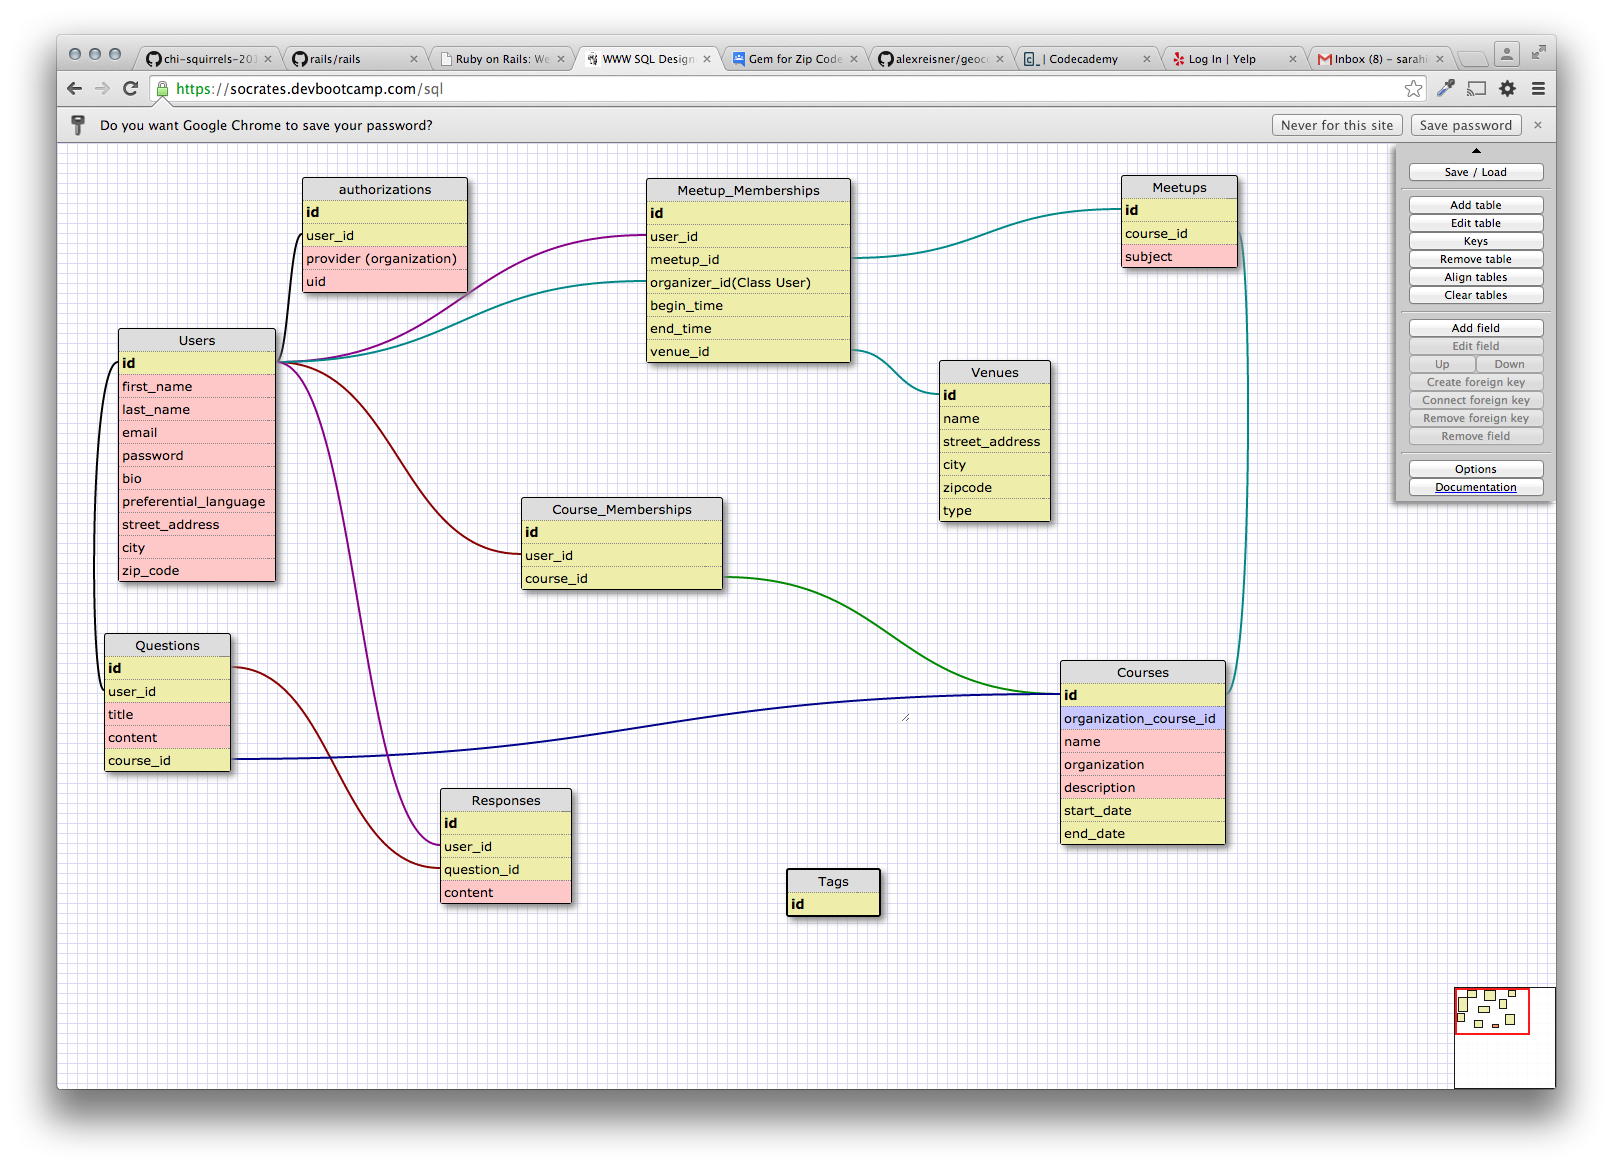
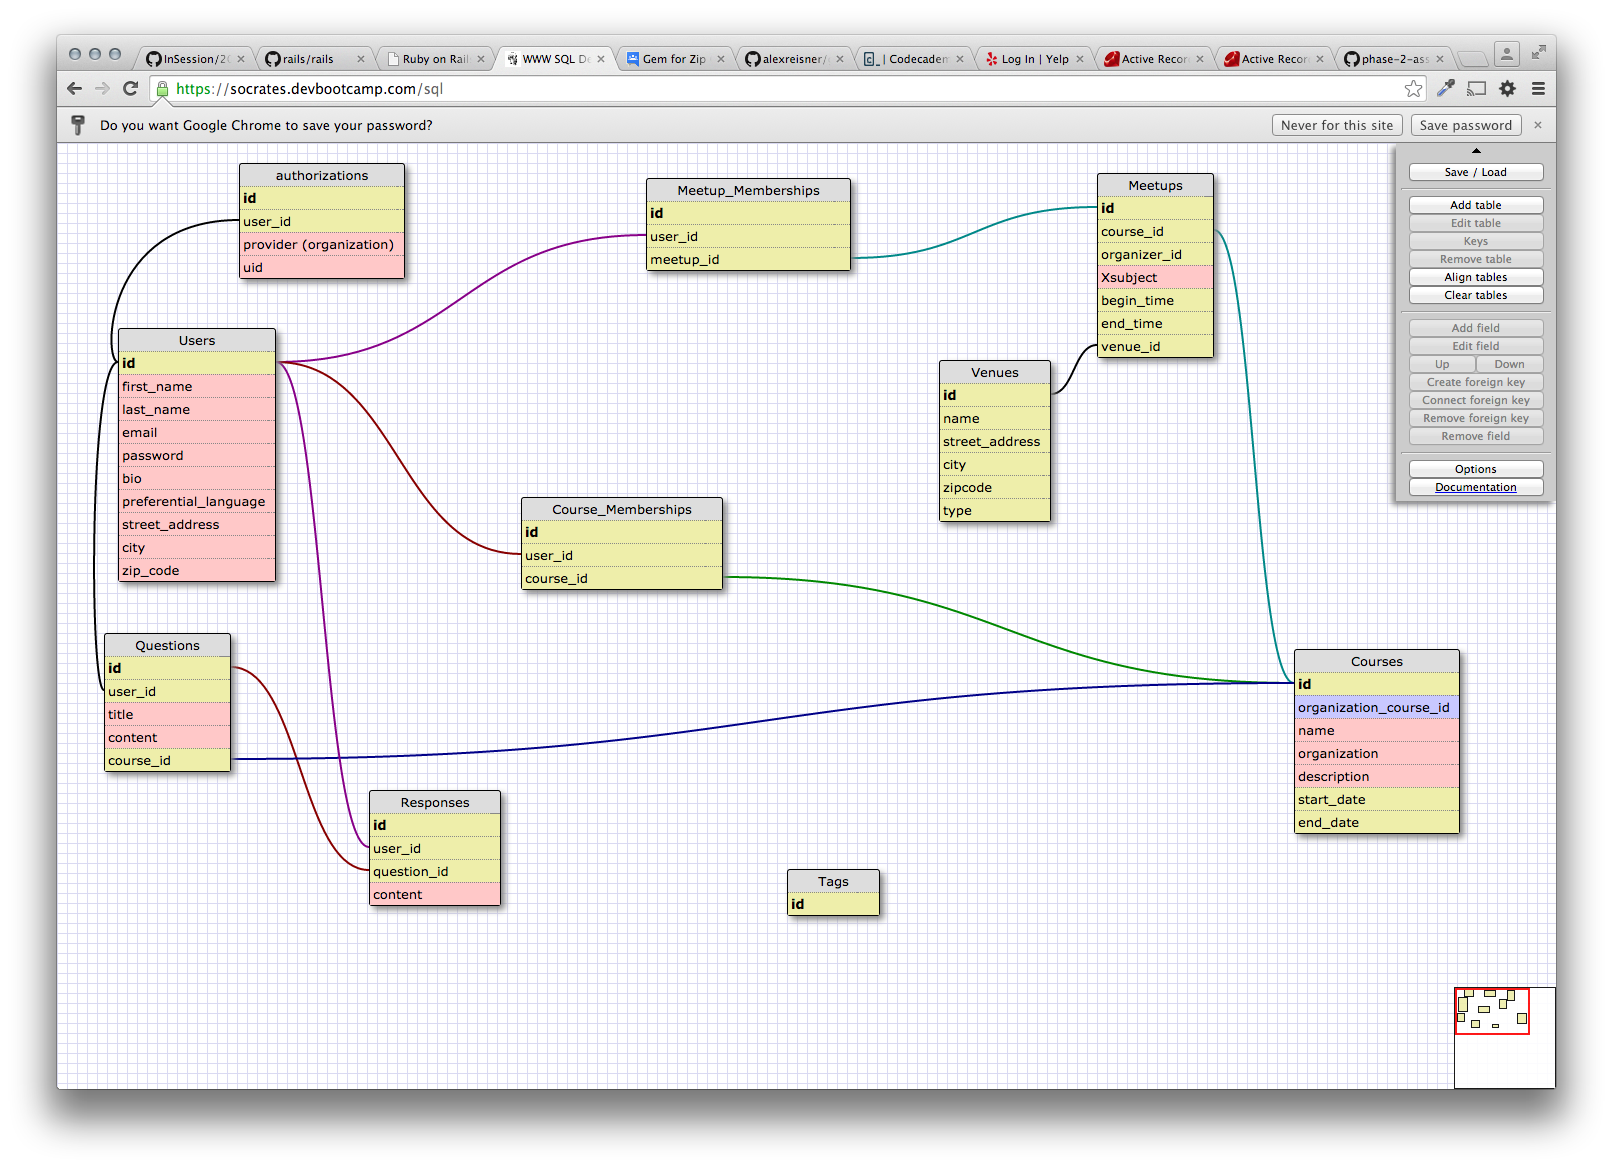
models are complete and sexy as they should be

diff --git a/app/models/user.rb b/app/models/user.rb
@@ -3,4 +3,11 @@ class User < ActiveRecord::Base
   # :confirmable, :lockable, :timeoutable and :omniauthable
   devise :database_authenticatable, :registerable,
          :recoverable, :rememberable, :trackable, :validatable
+  has_many :meetup_memberships
+  has_many :meetups, through: :meetup_memberships
+  has_many :organized_meetups, class_name: "Meetup", foreign_key: :organizer_id
+  has_many :course_memberships
+  has_many :courses, through: :course_memberships
+  has_many :questions
+  has_many :responses 
 end

diff --git a/db/migrate/20150306032107_create_meetups.rb b/db/migrate/20150306032107_create_meetups.rb
@@ -1,7 +1,13 @@
 class CreateMeetups < ActiveRecord::Migration
   def change
     create_table :meetups do |t|
-      t.references :course, index: true
+      t.references :course, index: true     
+      t.references :organizer, index: true 
+      t.datetime  :begin_time
+      t.datetime  :end_time
+      t.references :venue, index: true
+      t.boolean   :remote
+
       t.timestamps null: false
     end
   end

diff --git a/db/migrate/20150306163216_create_meetup_memberships.rb b/db/migrate/20150306163216_create_meetup_memberships.rb
@@ -3,11 +3,8 @@ class CreateMeetupMemberships < ActiveRecord::Migration
     create_table :meetup_memberships do |t|
       t.references :user, index: true
       t.references :meetup, index: true
-      t.references :organizer, index: true 
-      t.datetime  :begin_time
-      t.datetime  :end_time
-      t.references :venue, index: true
-        
+      
+      t.timestamps  
       end
     end
   end

diff --git a/app/models/meetup.rb b/app/models/meetup.rb
@@ -1,2 +1,8 @@
 class Meetup < ActiveRecord::Base
+  belongs_to :course
+  belongs_to :venue
+  belongs_to :organizer, class_name: "User"
+  has_many :meetup_memberships
+  has_many :users, through: :meetup_memberships
+   
 end

diff --git a/app/models/question.rb b/app/models/question.rb
@@ -1,4 +1,6 @@
 class Question < ActiveRecord::Base
   belongs_to :user
-   validates_presence_of :content, :title, :user_id
+  belongs_to :course
+  
+  validates_presence_of :content, :title, :user_id
 end

diff --git a/app/models/course.rb b/app/models/course.rb
@@ -1,2 +1,5 @@
 class Course < ActiveRecord::Base
+  has_many :course_memberships
+  has_many :users, through: :course_memberships
+  has_many :questions
 end

diff --git a/app/models/course_membership.rb b/app/models/course_membership.rb
@@ -1,0 +1,5 @@
+class CourseMembership < ActiveRecord::Base
+  belongs_to :user
+  belongs_to :course
+  
+end

diff --git a/app/models/meetup_membership.rb b/app/models/meetup_membership.rb
@@ -1,0 +1,5 @@
+class MeetupMembership < ActiveRecord::Base
+  belongs_to :user
+  belongs_to :meetup
+
+end

diff --git a/app/models/response.rb b/app/models/response.rb
@@ -1,2 +1,4 @@
 class Response < ActiveRecord::Base
+  belongs_to :user
+  belongs_to :question
 end

diff --git a/schema.md b/schema.md
@@ -69,7 +69,7 @@
 <part>id</part>
 </key>
 </table>
-<table x="1003" y="517" name="Courses">
+<table x="1237" y="506" name="Courses">
 <row name="id" null="1" autoincrement="1">
 <datatype>INTEGER</datatype>
 <default>NULL</default></row>
@@ -117,7 +117,7 @@
 <part>id</part>
 </key>
 </table>
-<table x="383" y="645" name="Responses">
+<table x="312" y="647" name="Responses">
 <row name="id" null="1" autoincrement="1">
 <datatype>INTEGER</datatype>
 <default>NULL</default></row>
@@ -136,7 +136,7 @@
 <part>id</part>
 </key>
 </table>
-<table x="1352" y="836" name="Tags">
+<table x="730" y="726" name="Tags">
 <row name="id" null="1" autoincrement="1">
 <datatype>INTEGER</datatype>
 <default>NULL</default></row>
@@ -144,7 +144,7 @@
 <part>id</part>
 </key>
 </table>
-<table x="1064" y="32" name="Meetups">
+<table x="1040" y="30" name="Meetups">
 <row name="id" null="1" autoincrement="1">
 <datatype>INTEGER</datatype>
 <default>NULL</default></row>
@@ -152,9 +152,22 @@
 <datatype>INTEGER</datatype>
 <default>NULL</default><relation table="Courses" row="id" />
 </row>
-<row name="subject" null="1" autoincrement="0">
+<row name="organizer_id" null="1" autoincrement="0">
+<datatype>INTEGER</datatype>
+<default>NULL</default></row>
+<row name="Xsubject" null="1" autoincrement="0">
 <datatype>CHAR</datatype>
 <default>NULL</default></row>
+<row name="begin_time" null="1" autoincrement="0">
+<datatype>INTEGER</datatype>
+<default>NULL</default></row>
+<row name="end_time" null="1" autoincrement="0">
+<datatype>INTEGER</datatype>
+<default>NULL</default></row>
+<row name="venue_id" null="1" autoincrement="0">
+<datatype>INTEGER</datatype>
+<default>NULL</default><relation table="Venues" row="id" />
+</row>
 <key type="PRIMARY" name="">
 <part>id</part>
 </key>
@@ -170,20 +183,6 @@
 <row name="meetup_id" null="1" autoincrement="0">
 <datatype>INTEGER</datatype>
 <default>NULL</default><relation table="Meetups" row="id" />
-</row>
-<row name="organizer_id(Class User)" null="1" autoincrement="0">
-<datatype>INTEGER</datatype>
-<default>NULL</default><relation table="Users" row="id" />
-</row>
-<row name="begin_time" null="1" autoincrement="0">
-<datatype>INTEGER</datatype>
-<default>NULL</default></row>
-<row name="end_time" null="1" autoincrement="0">
-<datatype>INTEGER</datatype>
-<default>NULL</default></row>
-<row name="venue_id" null="1" autoincrement="0">
-<datatype>INTEGER</datatype>
-<default>NULL</default><relation table="Venues" row="id" />
 </row>
 <key type="PRIMARY" name="">
 <part>id</part>
@@ -205,7 +204,7 @@
 <part>id</part>
 </key>
 </table>
-<table x="245" y="34" name="authorizations">
+<table x="182" y="20" name="authorizations">
 <row name="id" null="1" autoincrement="1">
 <datatype>INTEGER</datatype>
 <default>NULL</default></row>
@@ -247,4 +246,5 @@
 </key>
 </table>
 </sql>
+
 ```
